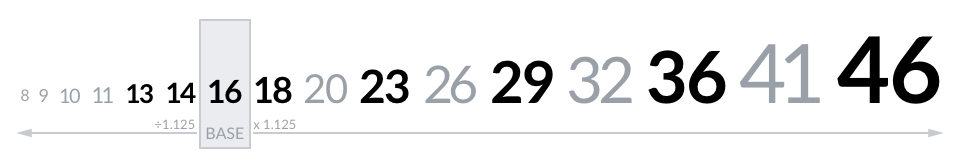
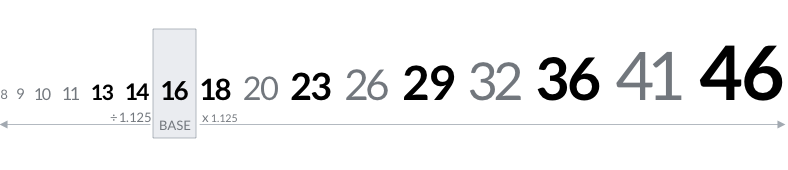
“Visual Style – Typography”: Use HiDPI typography-scale image (#165)

Changed region(s): [[0.0, 0.0893, 1.0, 0.8333], [0.1827, 0.8631, 0.2741, 0.8929]]

diff --git a/visual-style_typography.html b/visual-style_typography.html
@@ -141,7 +141,7 @@
 						<h2>Use of styles</h2>
 						<p>The recommended styles are intended to optimize readability of Wikipedia’s dense encyclopedic content.</p>
 						<p>Using the body text size of 16 scale-independent pixels (sp) as a base, a typographic scale of 1.125 was used to derive a harmonious rhythm between font-sizes for various headings and body copy.</p>
-						<img src="img/visual-style/typography-scale.png" alt="Scale of sizes used for text">
+						<img src="img/visual-style/typography-scale@2x.png" alt="Scale of sizes used for text">
 						<p>The scale-independent pixels can result in a different number of actual pixels in the user screen due to screen density or user preferences. A 16&#160;sp text is rendered as 16&#160;px in a 1x device at standard zoom level, but it becomes 21&#160;px in a 2x device (or when zoomed 200% on a 1x device).</p>
 						<p>Common text styles are based on the defined scale to clearly communicate the content hierarchy. </p>
 						<dl class="typography-styles">
